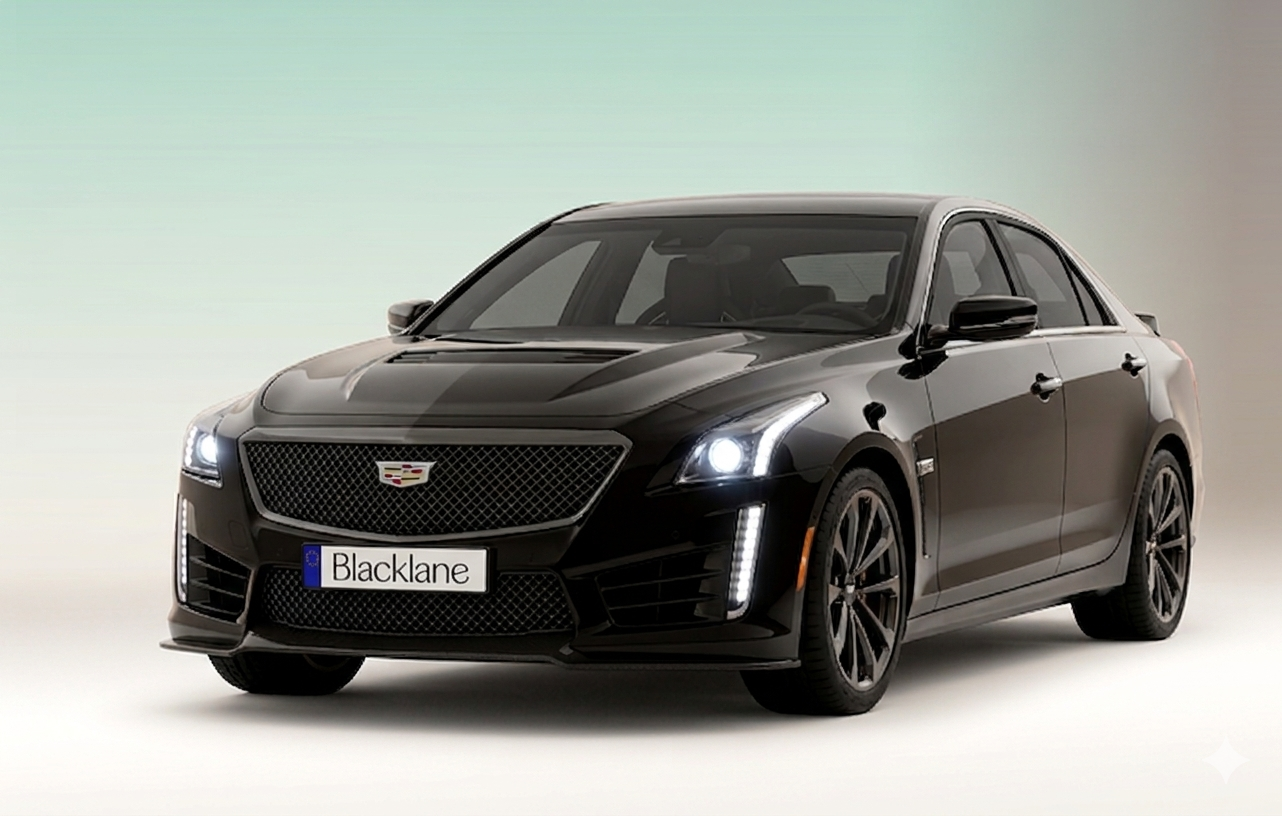
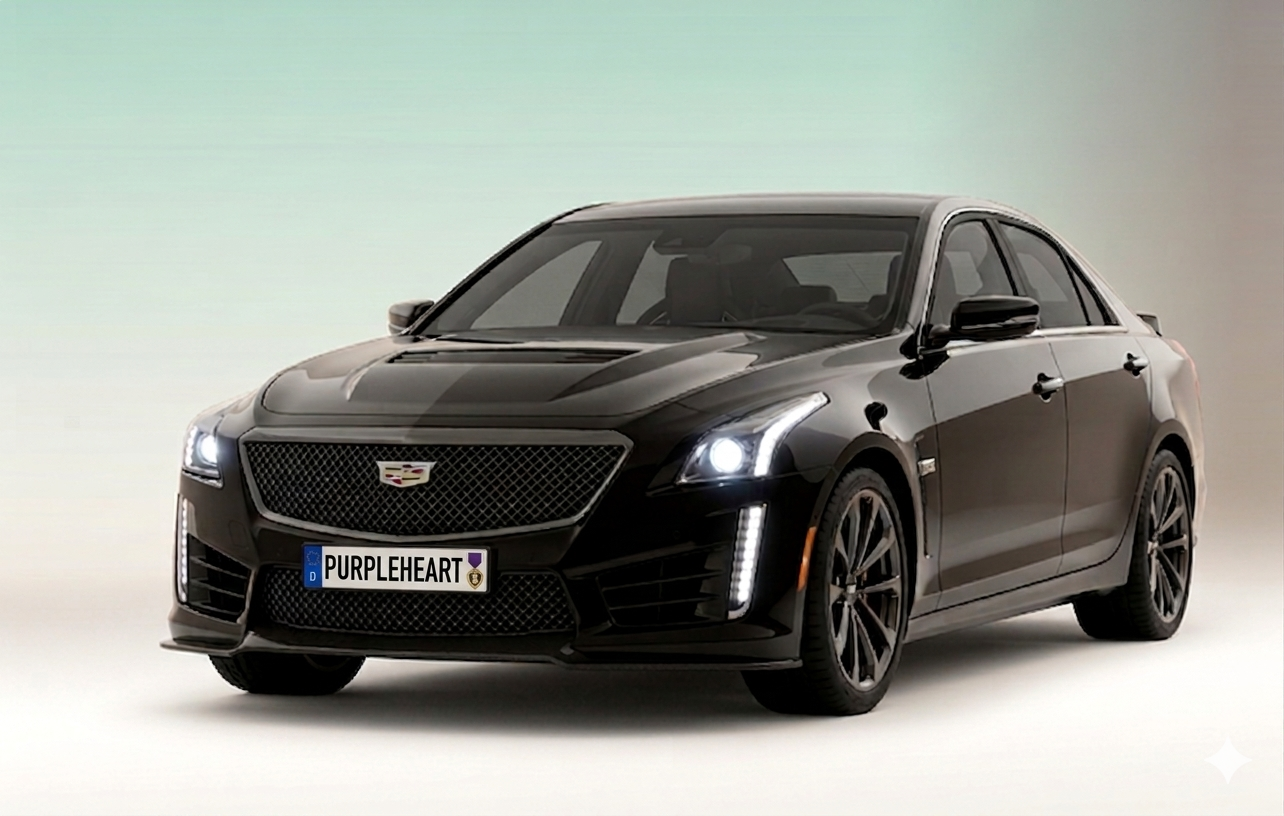
Update sedan image across all site pages
Replace all instances of the old sedan image (sedan.webp) with the new sedan-cadillac.png and v-sedan-cadillac.png across fleet.html, gallery.html, index.html, and services.html.

Replit-Commit-Author: Agent
Replit-Commit-Session-Id: 69e45d0a-00ed-4ffd-b0a7-940ab98bbbbf
Replit-Commit-Checkpoint-Type: full_checkpoint
Replit-Commit-Event-Id: 6ed04fd3-c111-437c-b06c-22f217c6b457
Replit-Commit-Screenshot-Url: https://storage.googleapis.com/screenshot-production-us-central1/0463f24a-ebca-46a5-aec2-0a40e3f5d87e/69e45d0a-00ed-4ffd-b0a7-940ab98bbbbf/vczEoie
Replit-Helium-Checkpoint-Created: true

Changed region(s): [[0.2184, 0.674, 0.3744, 0.7353], [0.9984, 0.7659, 1.0, 0.9498]]

diff --git a/fleet.html b/fleet.html
@@ -12,7 +12,7 @@
   <link rel="preconnect" href="https://fonts.gstatic.com" crossorigin>
   <link href="https://fonts.googleapis.com/css2?family=Cormorant+Garamond:ital,wght@0,300;0,400;0,600;0,700;1,400&family=Inter:wght@300;400;500;600;700&display=swap" rel="stylesheet" media="print" onload="this.media='all'">
   <noscript><link href="https://fonts.googleapis.com/css2?family=Cormorant+Garamond:ital,wght@0,300;0,400;0,600;0,700;1,400&family=Inter:wght@300;400;500;600;700&display=swap" rel="stylesheet"></noscript>
-  <link rel="preload" as="image" href="images/sedan.webp" fetchpriority="high">
+  <link rel="preload" as="image" href="images/v-sedan-cadillac.png" fetchpriority="high">
   <link rel="stylesheet" href="/css/page.css">
   <style>
     /* Fleet showcase — light theme */

diff --git a/gallery.html b/gallery.html
@@ -103,7 +103,7 @@
 
   <div class="gallery-grid" id="galleryGrid">
     <div class="gallery-item" data-cat="fleet" onclick="openLightbox(this)">
-      <img src="images/sedan.webp" alt="Executive Sedan — Purple Heart Limo" loading="lazy" onerror="this.src='https://images.unsplash.com/photo-1449965408869-eaa3f722e40d?w=600&q=70&auto=format'" data-caption="Executive Sedan">
+      <img src="images/sedan-cadillac.png" alt="Executive Sedan — Purple Heart Limo" loading="lazy" data-caption="Executive Sedan">
       <div class="gallery-overlay"><div class="gallery-caption"><span class="gallery-tag">Fleet</span>Executive Sedan</div></div>
     </div>
     <div class="gallery-item" data-cat="fleet" onclick="openLightbox(this)">

diff --git a/index.html b/index.html
@@ -1171,7 +1171,7 @@ footer {
 
         <!-- Real vehicle photo strip -->
         <div style="display:flex;gap:5px;margin-top:14px;border-top:1px solid rgba(45,0,69,0.08);padding-top:12px;">
-          <img src="images/sedan.webp" alt="Sedan" style="width:25%;height:48px;object-fit:cover;border-radius:5px;" loading="lazy">
+          <img src="images/sedan-cadillac.png" alt="Sedan" style="width:25%;height:48px;object-fit:contain;border-radius:5px;background:#f3f0e8;" loading="lazy">
           <img src="images/suv.webp" alt="SUV" style="width:25%;height:48px;object-fit:cover;border-radius:5px;" loading="lazy">
           <img src="images/stretched limo.webp" alt="Stretch Limo" style="width:25%;height:48px;object-fit:cover;border-radius:5px;" loading="lazy">
           <img src="images/sprinter.webp" alt="Sprinter" style="width:25%;height:48px;object-fit:cover;border-radius:5px;" loading="lazy">

diff --git a/services.html b/services.html
@@ -127,7 +127,7 @@
         <a href="/booking.html" class="btn-gold">Book Airport Transfer</a>
       </div>
       <div class="img-side">
-        <img src="images/sedan.webp" alt="Airport Transfer — Purple Heart Limo Executive Sedan" loading="lazy">
+        <img src="images/sedan-cadillac.png" alt="Airport Transfer — Purple Heart Limo Executive Sedan" loading="lazy">
       </div>
     </div>
   </div>